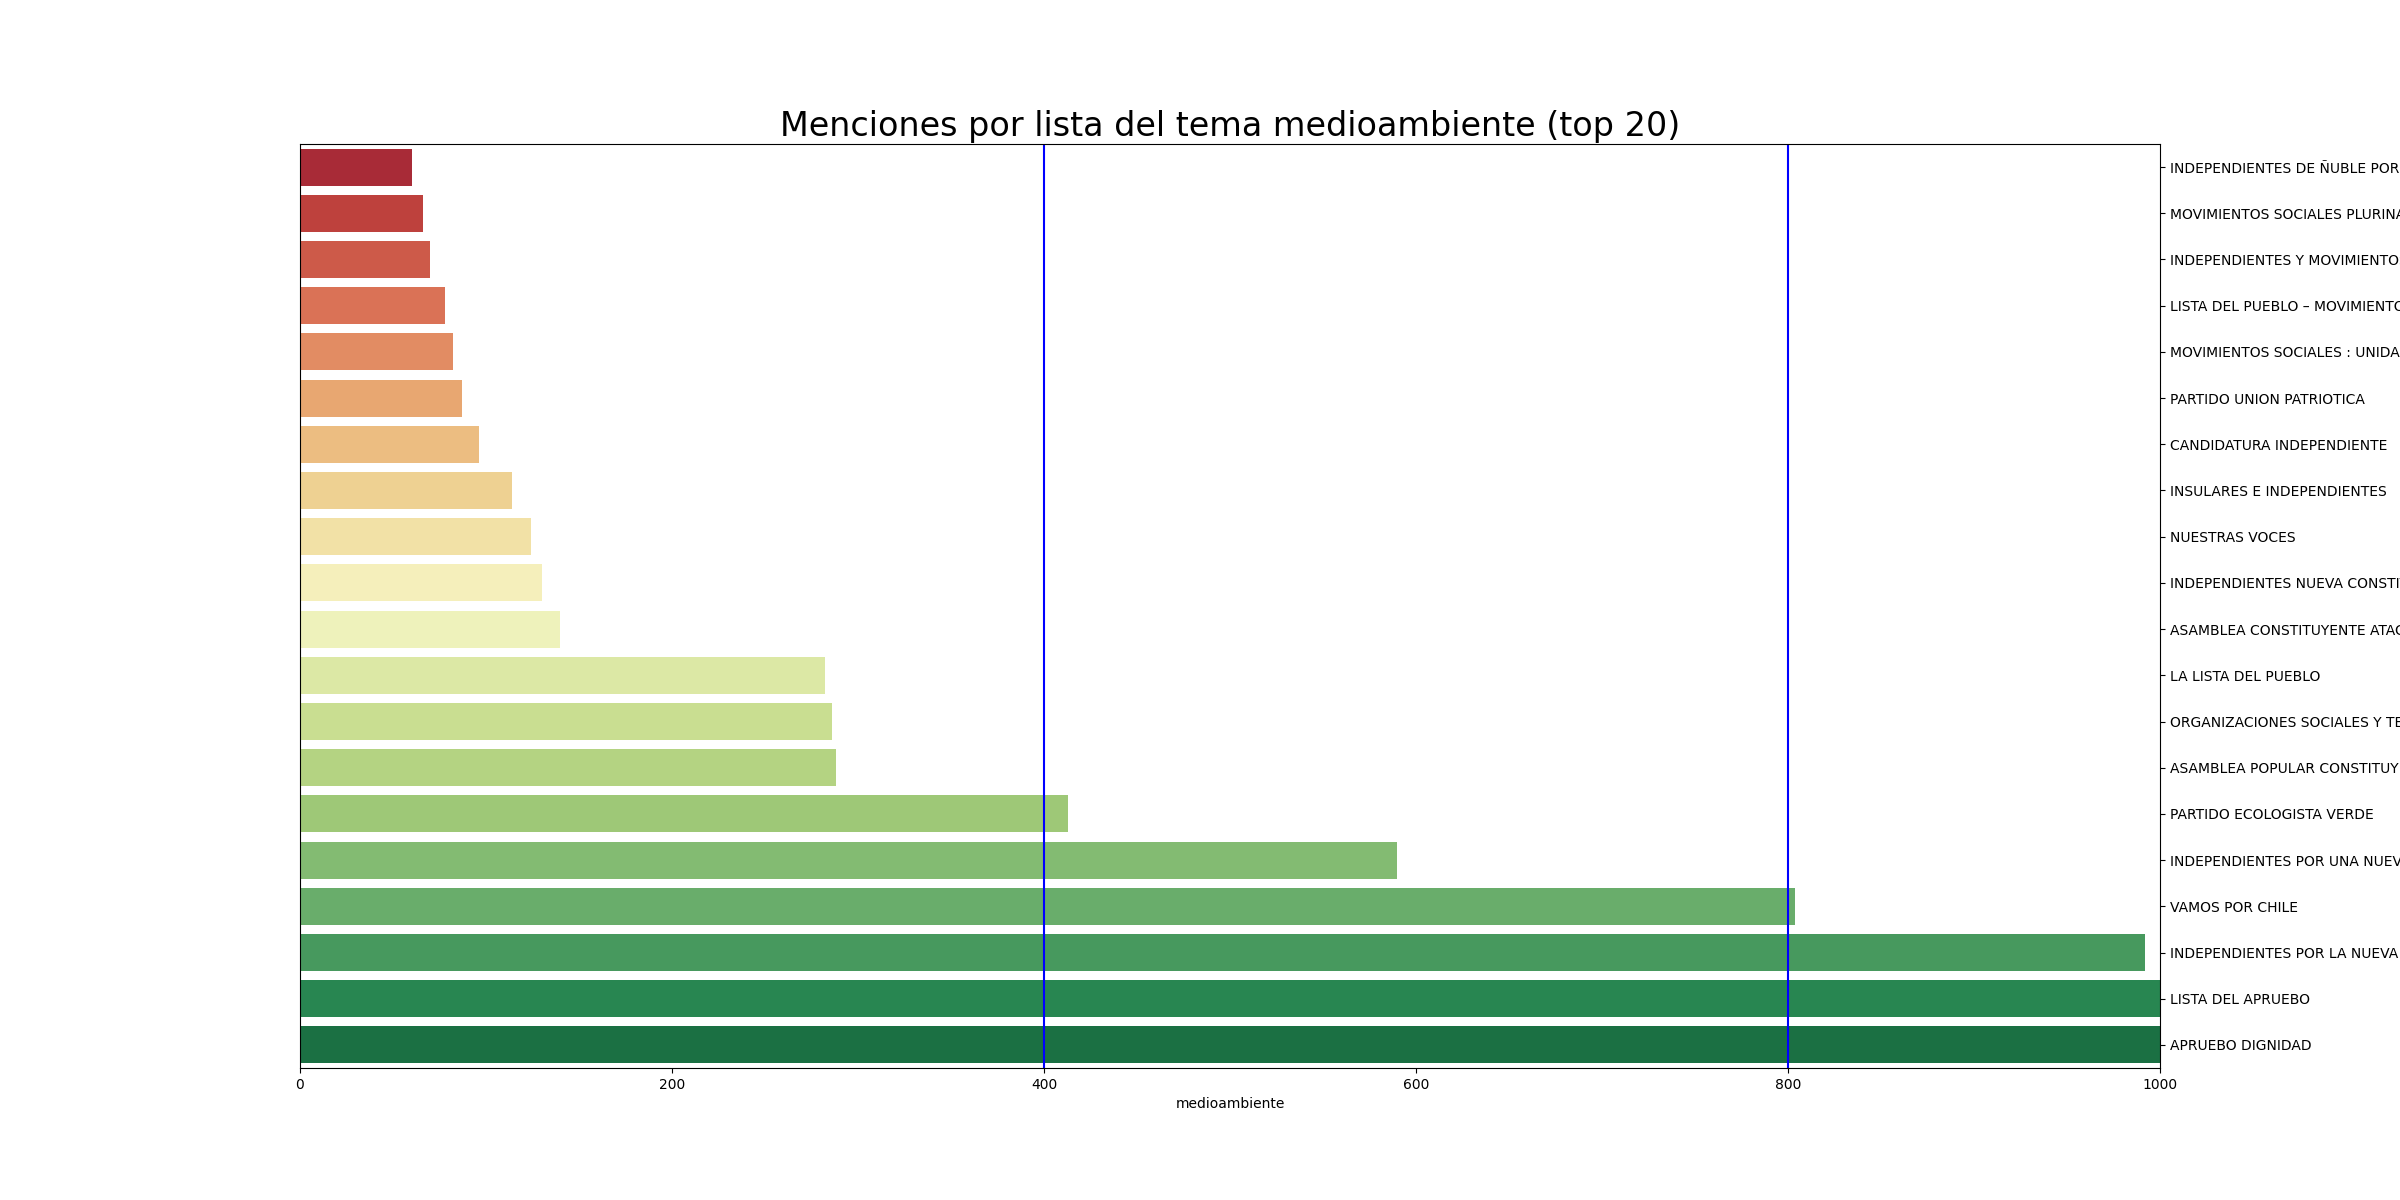
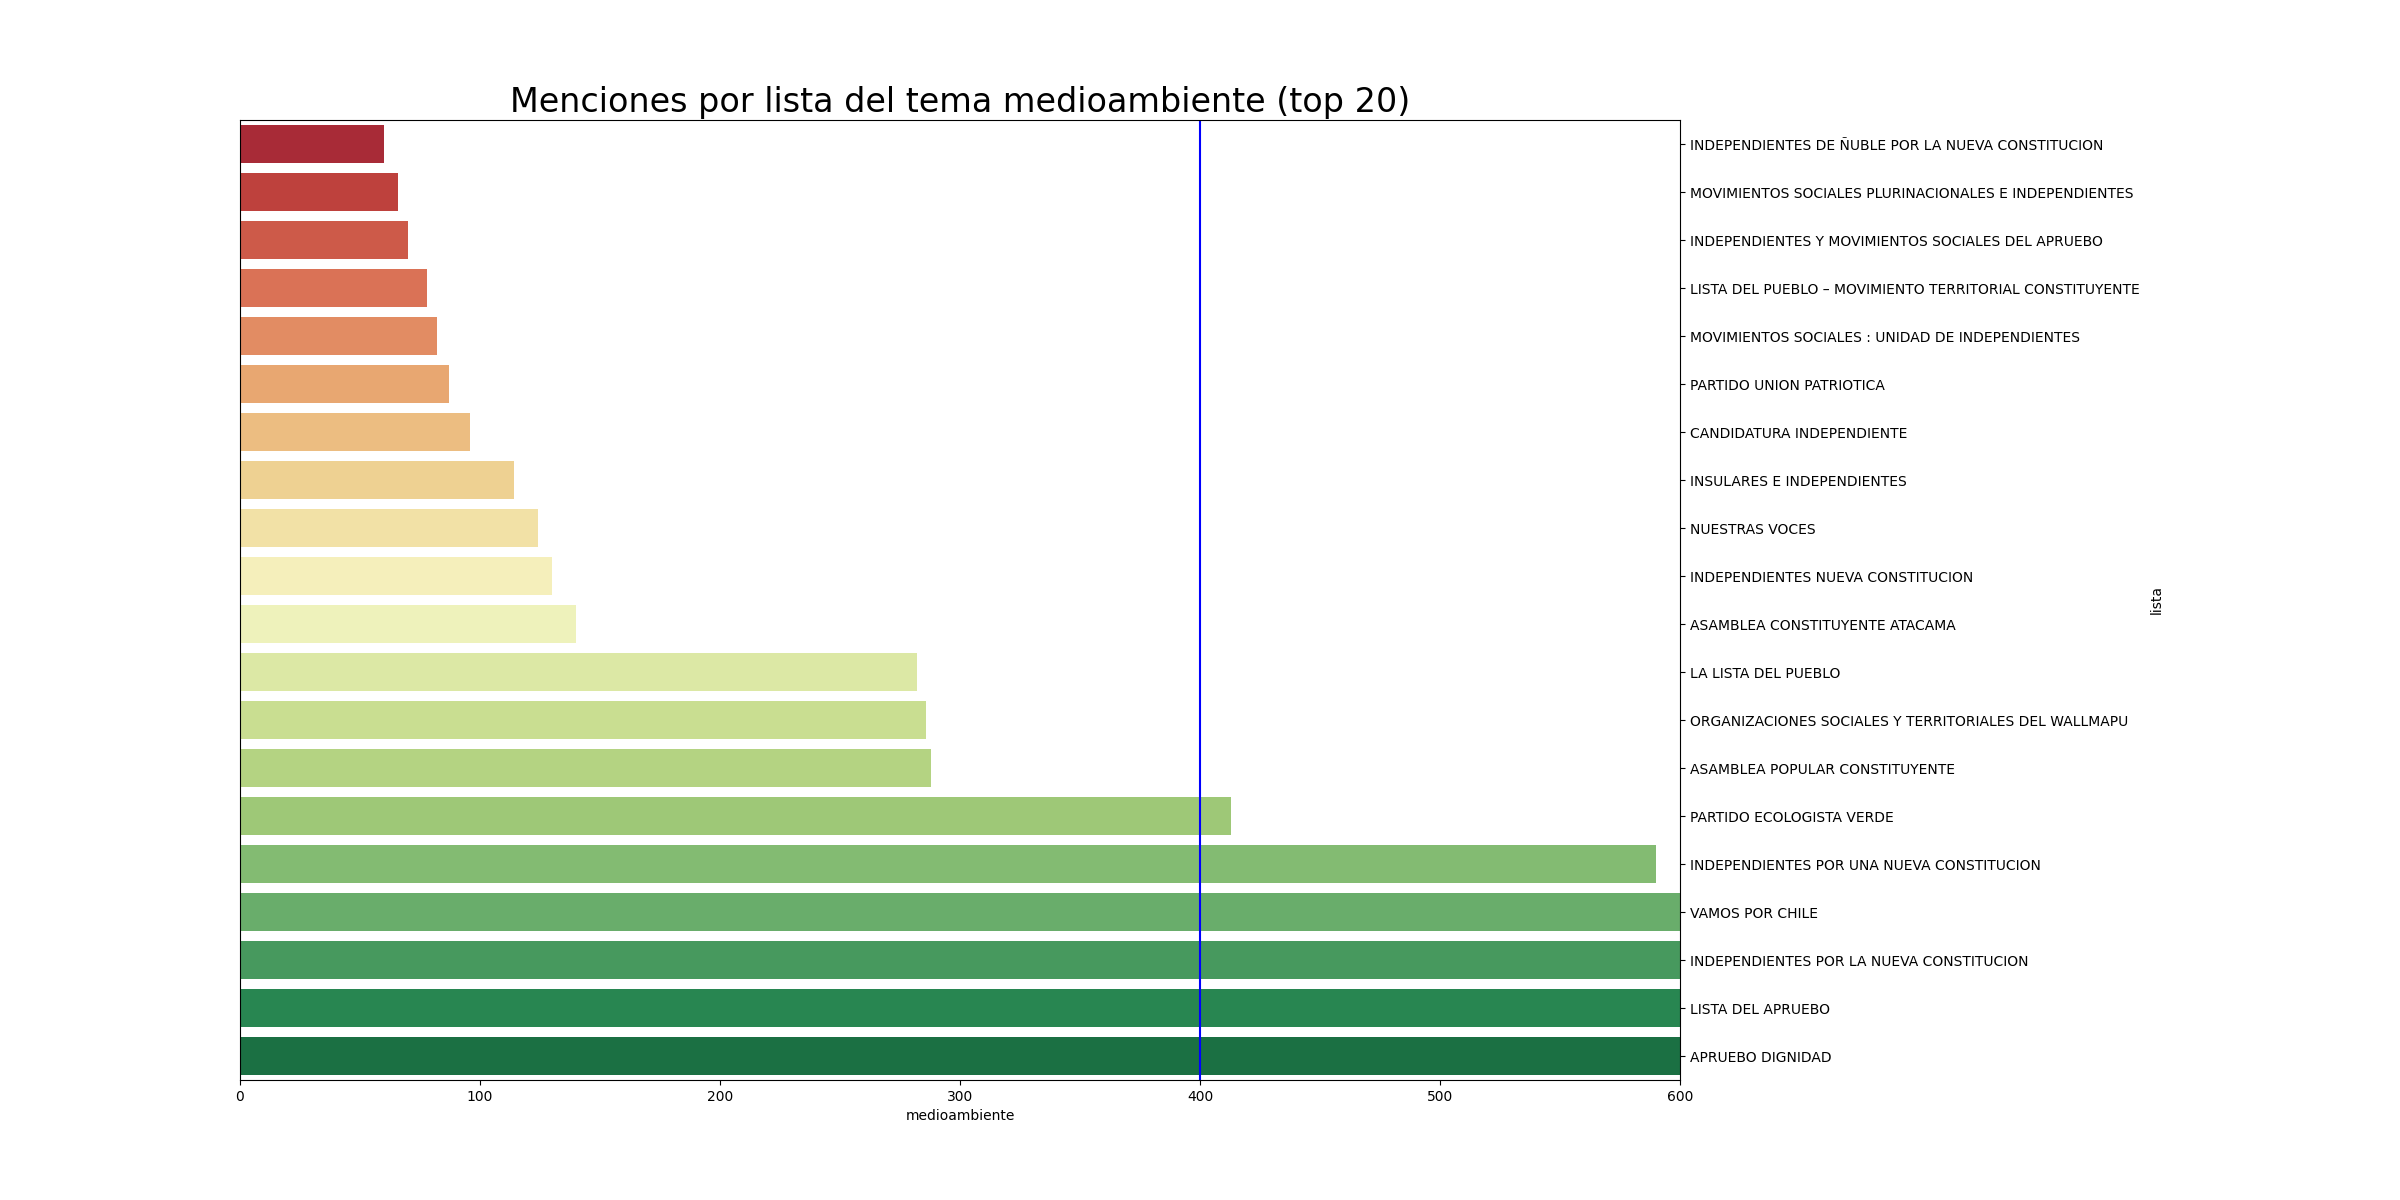
pushing it

diff --git a/plotters.py b/plotters.py
@@ -204,8 +204,9 @@ for tema in temas:
         plt.axvline(x=xx, color='blue')
     ax.yaxis.set_label_position("right")
     ax.yaxis.tick_right()   # all this works!
-    plt.margins(x=0.2)
-    plt.xlim([0,1000])
+    plt.subplots_adjust(left=0.1, right=0.7, top=0.9, bottom=0.1)
+    #plt.margins(x=0.2)
+    plt.xlim([0,1000] if tema=='agua' else [0,600])
     plt.title(f'Menciones por lista del tema {tema} (top 20)', size=24)
     plt.savefig(f'static/barplot_listas_{tema}.png')
     plt.close()
